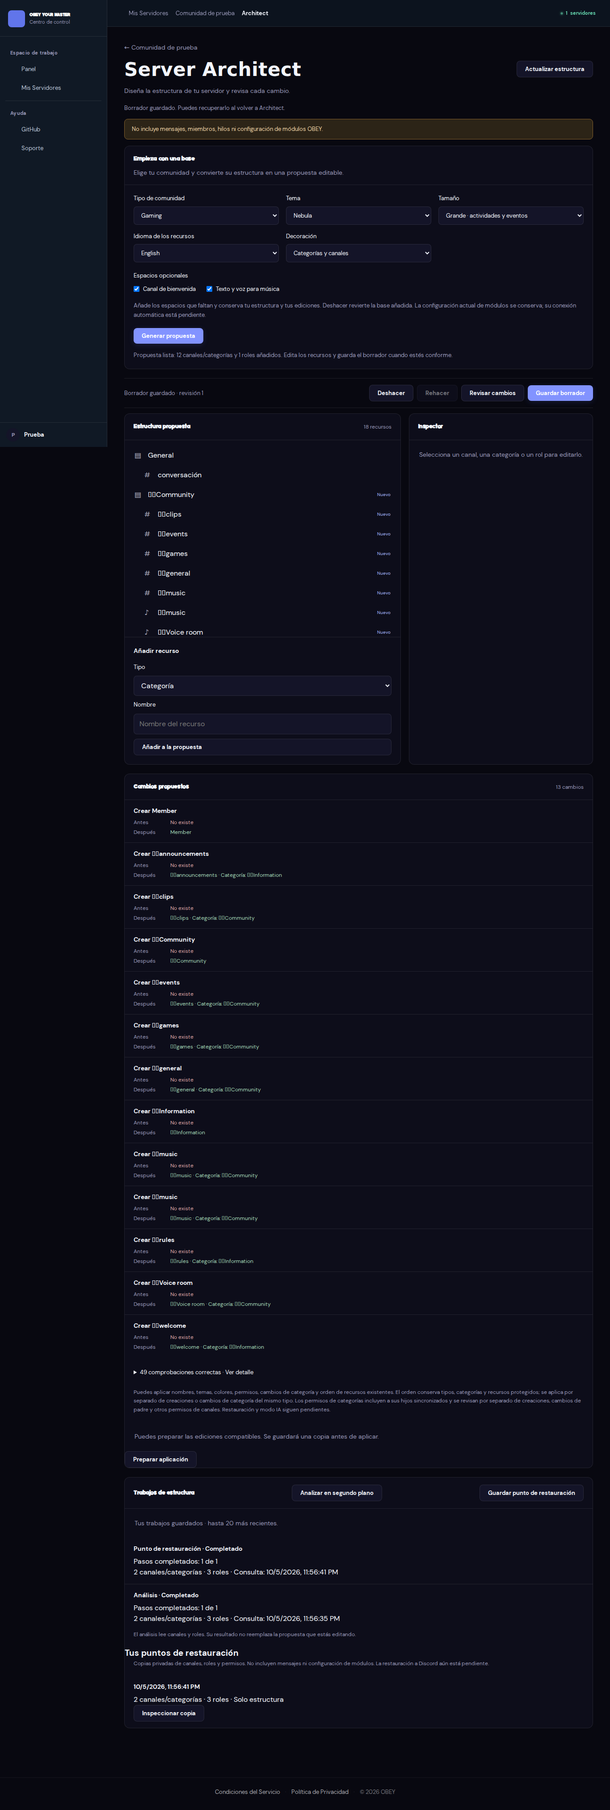
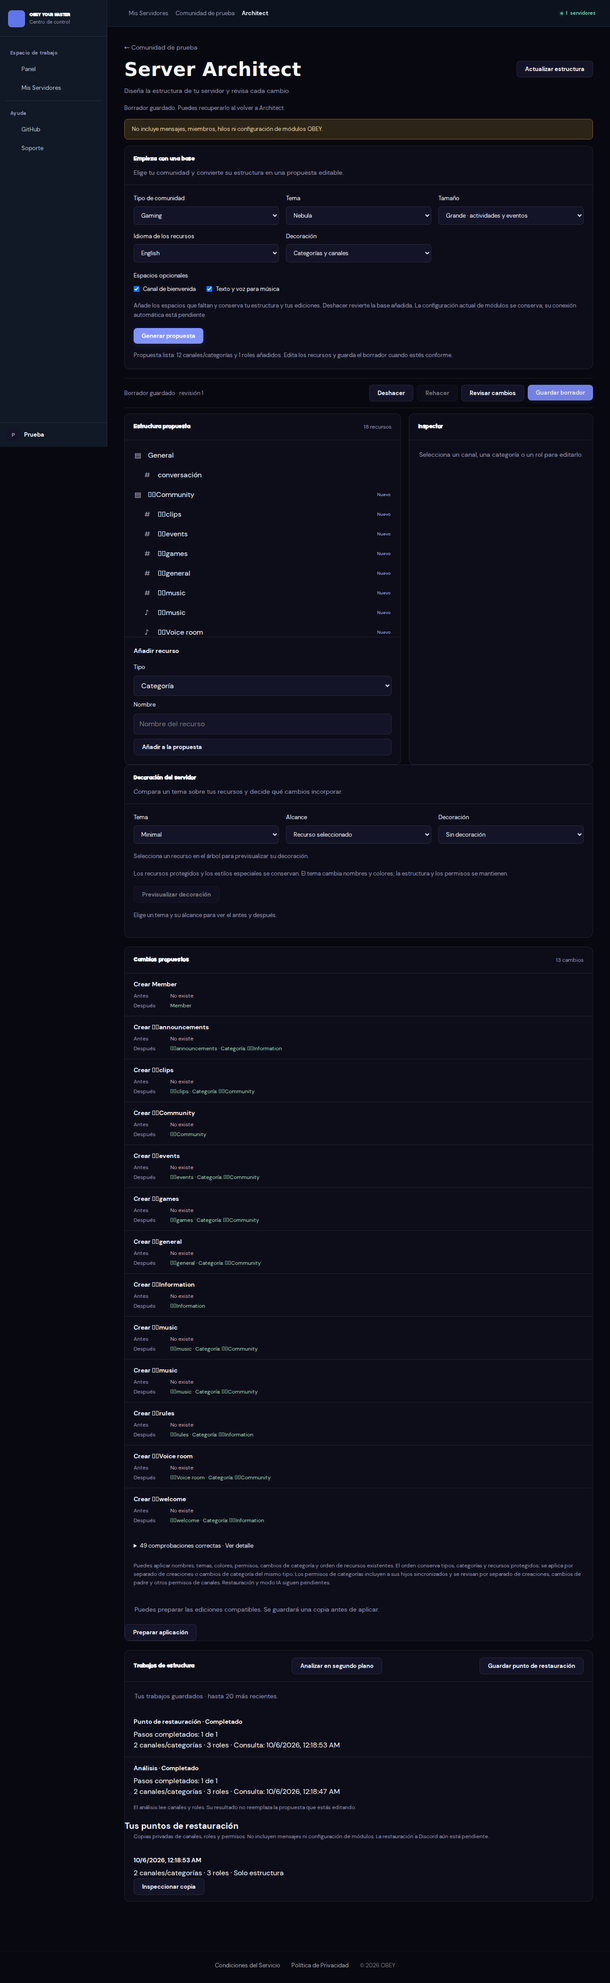
feat: add scoped Decoration Studio with reviewed names and role colors

diff --git a/scripts/verify-jobs-browser.js b/scripts/verify-jobs-browser.js
@@ -114,19 +114,40 @@ const {createJobsRuntime,connectionOptions}=require(root+'/handlers/jobs/runtime
   await page.waitForFunction(()=>document.querySelector('#architect-wizard-status').textContent.includes('0 canales/categorías'))
   await page.locator('#architect-undo').click();await page.locator('#architect-save').click();await page.waitForFunction(()=>document.querySelector('#architect-draft-status').textContent.includes('revisión 2'))
   if(await page.locator('[data-resource-id="local:setup-games"]').count())throw Error('Undo did not remove the generated base')
-  await page.locator('[data-resource-id="chat"]').click();await page.locator('#architect-name').fill('nuevo-canal');await page.locator('#architect-edit').click()
-  await page.locator('[data-resource-id="staff"]').click();await page.locator('#architect-color').fill('#123456');await page.locator('#architect-edit').click()
+  async function decorate(scope,density='expressive'){
+   await page.locator('#architect-decoration-theme').selectOption('obey');await page.locator('#architect-decoration-scope').selectOption(scope);await page.locator('#architect-decoration-density').selectOption(density)
+   const response=page.waitForResponse(response=>response.url().endsWith('/decorate')&&response.request().method()==='POST')
+   await page.locator('#architect-decoration-preview').click();const body=await (await response).json()
+   if(!body.ok)throw Error('Decoration rejected: '+JSON.stringify(body))
+   await page.waitForFunction(count=>!document.querySelector('#architect-decoration-fields').disabled&&document.querySelector('#architect-decoration-status').textContent.includes(`${count} recursos con cambios`),body.decoration.changed)
+   return body
+  }
+  await page.locator('[data-resource-id="cat"]').click();const decoratedCategory=await decorate('category')
+  if(decoratedCategory.decoration.changed!==2||edits||creates)throw Error('Category decoration missed its scope or caused effects')
+  const categoryNames=await page.locator('#architect-diff').textContent()
+  if(!categoryNames.includes('✦・General')||!categoryNames.includes('✦・conversación'))throw Error('Decoration review omitted before/after names')
+  await page.screenshot({path:root+'/docs/platform/evidence/architect-decoration-desktop.png',fullPage:true})
+  await page.setViewportSize({width:390,height:844});await page.waitForFunction(()=>document.querySelector('#sidebar').getBoundingClientRect().right<=0)
+  await page.screenshot({path:root+'/docs/platform/evidence/architect-decoration-mobile.png',fullPage:true})
+  if(await page.evaluate(()=>document.documentElement.scrollWidth>innerWidth+1))throw Error('Decoration overflow on mobile')
+  await page.setViewportSize({width:1365,height:1000});await page.locator('#architect-undo').click()
+  const decoratedServer=await decorate('server')
+  if(decoratedServer.decoration.changed!==3||!await page.locator('#architect-decoration-skipped').textContent().then(text=>text.includes('@everyone: protegido')&&text.includes('OBEY: protegido')))throw Error('Server decoration did not preserve/report protected roles')
+  await page.locator('#architect-undo').click()
+  await page.locator('[data-resource-id="chat"]').click();await decorate('resource')
+  const repeatedDecoration=await decorate('resource');if(repeatedDecoration.decoration.changed!==0)throw Error('Decoration duplicated its prefix')
+  await page.locator('[data-resource-id="staff"]').click();await decorate('resource','none')
   await page.locator('#architect-prepare-application').click();await page.waitForFunction(()=>!document.querySelector('#architect-confirm-application').hidden)
   if(edits!==0)throw Error('Preparing a plan mutated Discord fixture')
   page.once('dialog',dialog=>dialog.accept());await page.locator('#architect-confirm-application').click()
   await page.waitForFunction(()=>document.querySelector('#architect-jobs').textContent.includes('2 recursos editados'))
-  if(edits!==2||channels.find(item=>item.id==='chat').name!=='nuevo-canal'||roles.find(item=>item.id==='staff').colors.primaryColor!==0x123456)throw Error('Confirmed application did not persist the actual fixture edits')
+  if(edits!==2||channels.find(item=>item.id==='chat').name!=='✦・conversación'||roles.find(item=>item.id==='staff').colors.primaryColor!==0xd6b567)throw Error('Confirmed decoration did not persist the actual names/colors')
   const prior=await restorePoints.list(guild.id,'browser_actor');if(prior.length!==2)throw Error('Application did not capture a separate prior point')
   const beforeApply=await restorePoints.get(prior.find(point=>point.origin==='before_apply').id,guild.id,'browser_actor')
   if(beforeApply.snapshot.channels.find(item=>item.id==='chat').name!=='conversación')throw Error('Prior point captured after the edit')
   if(beforeApply.snapshot.roleColors.staff.primaryColor!==0)throw Error('Prior point captured after the role color edit')
   page.once('dialog',dialog=>dialog.accept());await page.locator('#architect-refresh').click()
-  await page.waitForFunction(()=>!document.querySelector('#architect-refresh').disabled&&document.querySelector('#architect-tree').textContent.includes('nuevo-canal'))
+  await page.waitForFunction(()=>!document.querySelector('#architect-refresh').disabled&&document.querySelector('#architect-tree').textContent.includes('✦・conversación'))
   async function add(kind,name){await page.locator('#architect-new-kind').selectOption(kind);await page.locator('#architect-new-name').fill(name);await page.locator('#architect-add button').click()}
   await add('role','Visitante nuevo');await add('4','Comunidad nueva')
   const categoryId=await page.getByRole('button',{name:'Categoría: Comunidad nueva',exact:true}).getAttribute('data-resource-id')
@@ -230,7 +251,7 @@ const {createJobsRuntime,connectionOptions}=require(root+'/handlers/jobs/runtime
   if(await second.locator('#architect-jobs').textContent()!=='')throw Error('Revocation left a private job visible')
   if(await second.locator('#architect-restore-points').textContent()!=='')throw Error('Revocation left a private restore point visible')
   if(reads!==before)throw Error('Unauthorized source read')
-  const result={scope:'Chromium, Express/EJS/session/CSRF and actual MongoDB/Redis/BullMQ; fixture Discord provider',states:['community wizard','language/theme/size/decoration affect proposal','generated resources in editor and diff','private draft persisted','second tab recovers wizard proposal','wizard repeat without duplicates','wizard undo','wizard mobile without overflow','submit','measured steps','completed result','create structural restore point','inspect actual copy and completeness limits','reload','second tab','prepare without effects','explicit confirmation','fixture edit and prior point','create role/category/text/voice','real ID dependency and checkpoints','lost creation response without duplicate','ordering limits reviewed','category move review and confirmation','move preserves ID/order/permissions','move checkpoint and prior copy','role/channel reorder from inspector','reorder confirmation and batch checkpoints','protected/voice positions preserved','reorder prior copy','role/channel permission inspector','readable permission review','confirmed permissions and prior copy','category inspector and child impact','category review lists each synced child','category confirmation and single write','category prior copy and checkpoint','custom child permissions preserved','bot access loss blocked before effects','cancel','queue unavailable','permission revoked','late authorized response rejected'],desktop:1365,mobile:390,overflow:false,errors}
+  const result={scope:'Chromium, Express/EJS/session/CSRF and actual MongoDB/Redis/BullMQ; fixture Discord provider',states:['category decoration scope and before/after','server decoration and protected roles reported','resource decoration of channel and role','decoration repeat without stacked prefix','decoration undo','confirmed decoration and prior copy','decoration mobile without overflow','community wizard','language/theme/size/decoration affect proposal','generated resources in editor and diff','private draft persisted','second tab recovers wizard proposal','wizard repeat without duplicates','wizard undo','wizard mobile without overflow','submit','measured steps','completed result','create structural restore point','inspect actual copy and completeness limits','reload','second tab','prepare without effects','explicit confirmation','fixture edit and prior point','create role/category/text/voice','real ID dependency and checkpoints','lost creation response without duplicate','ordering limits reviewed','category move review and confirmation','move preserves ID/order/permissions','move checkpoint and prior copy','role/channel reorder from inspector','reorder confirmation and batch checkpoints','protected/voice positions preserved','reorder prior copy','role/channel permission inspector','readable permission review','confirmed permissions and prior copy','category inspector and child impact','category review lists each synced child','category confirmation and single write','category prior copy and checkpoint','custom child permissions preserved','bot access loss blocked before effects','cancel','queue unavailable','permission revoked','late authorized response rejected'],desktop:1365,mobile:390,overflow:false,errors}
   if(errors.length)throw Error(errors.join('; '))
   fs.writeFileSync(root+'/docs/platform/evidence/jobs-browser.json',JSON.stringify(result,null,2)+'\n');console.log(JSON.stringify(result))
  }finally{

diff --git a/test/architect-decoration.test.js b/test/architect-decoration.test.js
@@ -1,0 +1,78 @@
+const { test } = require('node:test')
+const assert = require('node:assert/strict')
+const { decorateProposal, decorationCatalog } = require('../handlers/architect/decoration')
+const { validateBlueprint } = require('../handlers/architect/blueprint')
+const { diffBlueprint } = require('../handlers/architect/diff')
+const { compileEdits } = require('../handlers/architect/application')
+const { createArchitectService } = require('../handlers/architect/service')
+function fixture() {
+  const channel = (id, type, parentId = null) => ({ id, name: id, type, parentId, position: 1, topic: '', nsfw: false, bitrate: type === 2 ? 64000 : null, userLimit: type === 2 ? 0 : null, rateLimitPerUser: 0, overwrites: [] })
+  const role = (id, managed = false) => ({ id, name: id, position: 1, permissions: '1024', color: 0, hoist: false, mentionable: false, managed })
+  const source = { guildId: 'g', revision: 'r', channels: [channel('category', 4), channel('chat', 0, 'category'), channel('voice', 2, 'category'), channel('other', 0), channel('forum', 15, 'category')],
+    roles: [role('g'), role('bot', true), role('staff')], roleColors: { staff: { primaryColor: 0, secondaryColor: null, tertiaryColor: null } } }
+  const draft = { schemaVersion: 1, baseRevision: 'r', channels: structuredClone(source.channels), roles: structuredClone(source.roles), protectedIds: [] }
+  return { source, draft }
+}
+const choices = extra => ({ theme: 'obey', decoration: 'expressive', scope: 'server', ...extra })
+test('all seven themes produce only reviewed names/colors and preserve structure, permissions and IDs', () => {
+  for (const theme of decorationCatalog().themes) {
+    const { source, draft } = fixture(), before = structuredClone(draft)
+    const result = decorateProposal(draft, source, choices({ theme: theme.id }))
+    assert.deepEqual(draft, before)
+    const blueprint = validateBlueprint(result.blueprint, source), diff = diffBlueprint(source, blueprint)
+    assert.ok(diff.changes.length > 0)
+    assert.ok(diff.changes.every(change => change.operation === 'update' && ['name', 'color'].includes(change.field)))
+    assert.ok(compileEdits(diff).every(operation => !operation.action))
+    for (const kind of ['channels', 'roles']) for (const item of before[kind]) {
+      const actual = result.blueprint[kind].find(resource => resource.id === item.id)
+      for (const field of Object.keys(item).filter(field => !['name', 'color'].includes(field))) assert.deepEqual(actual[field], item[field])
+    }
+    assert.deepEqual(decorateProposal(result.blueprint, source, choices({ theme: theme.id })).blueprint, result.blueprint)
+  }
+})
+test('resource/category/roles scopes affect exactly their eligible targets and protection is reported', () => {
+  const { source, draft } = fixture(); draft.protectedIds = ['chat']
+  const category = decorateProposal(draft, source, choices({ scope: 'category', resourceId: 'category' }))
+  assert.equal(category.decoration.changed, 2)
+  assert.ok(category.decoration.skipped.some(item => item.id === 'chat'))
+  assert.ok(category.decoration.skipped.some(item => item.id === 'forum'))
+  assert.equal(category.blueprint.channels.find(item => item.id === 'other').name, 'other')
+  assert.deepEqual(category.blueprint.roles, draft.roles)
+  const role = decorateProposal(draft, source, choices({ scope: 'resource', kind: 'roles', resourceId: 'staff' }))
+  assert.equal(role.decoration.changed, 1); assert.deepEqual(role.blueprint.channels, draft.channels)
+  const roles = decorateProposal(draft, source, choices({ scope: 'roles' }))
+  assert.equal(roles.decoration.changed, 1); assert.equal(roles.decoration.skipped.length, 2)
+  draft.protectedIds = ['category']
+  const zone = decorateProposal(draft, source, choices({ scope: 'category', resourceId: 'category' }))
+  assert.equal(zone.decoration.changed, 0); assert.deepEqual(zone.blueprint, draft)
+})
+test('gradient, holographic and unknown role styles stay intact and unsupported requests fail', () => {
+  for (const colors of [undefined, { primaryColor: 0, secondaryColor: 1, tertiaryColor: null }, { primaryColor: 0, secondaryColor: 1, tertiaryColor: 2 }]) {
+    const { source, draft } = fixture(); source.roleColors.staff = colors
+    const result = decorateProposal(draft, source, choices({ scope: 'roles' }))
+    assert.deepEqual(result.blueprint.roles, draft.roles)
+    assert.ok(result.decoration.skipped.some(item => item.id === 'staff' && item.reason === 'role_style'))
+  }
+  const { source, draft } = fixture()
+  for (const options of [choices({ theme: 'unknown' }), choices({ scope: 'unknown' }), choices({ decoration: 'unknown' }), choices({ scope: 'resource', kind: 'channels', resourceId: 'foreign' }), choices({ scope: 'category', resourceId: 'chat' }), choices({ permissions: '8' })]) {
+    assert.throws(() => decorateProposal(draft, source, options), error => error.code === 'invalid_decoration')
+  }
+})
+test('changing theme replaces known preset decoration, preserves custom prefixes and rejects oversized names', () => {
+  const { source, draft } = fixture()
+  draft.channels.find(item => item.id === 'chat').name = '🔒・chat'
+  const first = decorateProposal(draft, source, choices()).blueprint
+  const second = decorateProposal(first, source, choices({ theme: 'sakura' })).blueprint
+  assert.equal(second.channels.find(item => item.id === 'chat').name, '🌸・🔒・chat')
+  const minimal = decorateProposal(second, source, choices({ theme: 'minimal', decoration: 'none' })).blueprint
+  assert.equal(minimal.channels.find(item => item.id === 'chat').name, '🔒・chat')
+  draft.channels.find(item => item.id === 'chat').name = 'a'.repeat(100)
+  assert.throws(() => decorateProposal(draft, source, choices()), error => error.code === 'decoration_name_limit')
+})
+test('decoration service validates fresh revision and returns an editable preview without saving or applying', async () => {
+  const { source, draft } = fixture(); let reads = 0
+  const service = createArchitectService({ snapshot: async () => { reads++; return source } })
+  const result = await service.decorate({ id: 'g' }, 'actor', draft, choices())
+  assert.equal(reads, 1); assert.ok(result.diff.changes.length); assert.ok(result.decoration.changed)
+  await assert.rejects(service.decorate({ id: 'g' }, 'actor', { ...draft, baseRevision: 'old' }, choices()), error => error.code === 'revision_conflict')
+})

diff --git a/handlers/architect/wizard.js b/handlers/architect/wizard.js
@@ -1,4 +1,5 @@
 const { BlueprintError } = require('./blueprint')
+const { themeCatalog, getTheme, themedName } = require('./themes')
 const communities = [
   ['gaming', 'Gaming', ['games', 'clips']], ['community', 'Comunidad', ['introductions', 'suggestions']],
   ['anime', 'Anime', ['anime', 'art']], ['music', 'Música', ['music', 'recommendations']],
@@ -6,15 +7,13 @@ const communities = [
   ['study', 'Estudio', ['resources', 'help']], ['roleplay', 'Roleplay', ['characters', 'stories']],
   ['support', 'Soporte', ['help', 'resources']], ['custom', 'Personalizado', ['introductions', 'projects']],
 ]
-const themes = [['midnight', 'Midnight', 0x64748b, '🌙'], ['minimal', 'Minimal', 0x94a3b8, ''], ['sakura', 'Sakura', 0xf9a8d4, '🌸'],
-  ['nebula', 'Nebula', 0xa78bfa, '✨'], ['gaming', 'Gaming', 0x22c55e, '🎮'], ['luxury', 'Luxury', 0xd4af37, '◆'], ['obey', 'OBEY', 0xd6b567, '✦']]
 const names = {
   es: { information: 'Información', community: 'Comunidad', rules: 'reglas', announcements: 'anuncios', general: 'general', introductions: 'presentaciones', suggestions: 'sugerencias', games: 'juegos', clips: 'clips', anime: 'anime', art: 'arte', recommendations: 'recomendaciones', music: 'música', projects: 'proyectos', help: 'ayuda', resources: 'recursos', characters: 'personajes', stories: 'historias', events: 'eventos', voice: 'Sala de voz', member: 'Miembro', welcome: 'bienvenida' },
   en: { information: 'Information', community: 'Community', rules: 'rules', announcements: 'announcements', general: 'general', introductions: 'introductions', suggestions: 'suggestions', games: 'games', clips: 'clips', anime: 'anime', art: 'art', recommendations: 'recommendations', music: 'music', projects: 'projects', help: 'help', resources: 'resources', characters: 'characters', stories: 'stories', events: 'events', voice: 'Voice room', member: 'Member', welcome: 'welcome' },
   pt: { information: 'Informações', community: 'Comunidade', rules: 'regras', announcements: 'anúncios', general: 'geral', introductions: 'apresentações', suggestions: 'sugestões', games: 'jogos', clips: 'clipes', anime: 'anime', art: 'arte', recommendations: 'recomendações', music: 'música', projects: 'projetos', help: 'ajuda', resources: 'recursos', characters: 'personagens', stories: 'histórias', events: 'eventos', voice: 'Sala de voz', member: 'Membro', welcome: 'boas-vindas' },
 }
 function wizardCatalog() {
-  return { communities: communities.map(([id, label]) => ({ id, label })), themes: themes.map(([id, label]) => ({ id, label })),
+  return { communities: communities.map(([id, label]) => ({ id, label })), themes: themeCatalog(),
     sizes: [{ id: 'small', label: 'Pequeño · lo esencial' }, { id: 'medium', label: 'Mediano · espacios por actividad' }, { id: 'large', label: 'Grande · actividades y eventos' }],
     languages: [{ id: 'es', label: 'Español' }, { id: 'en', label: 'English' }, { id: 'pt', label: 'Português' }],
     decorations: [{ id: 'none', label: 'Sin decoración' }, { id: 'subtle', label: 'Solo categorías' }, { id: 'expressive', label: 'Categorías y canales' }],
@@ -23,13 +22,13 @@ function wizardCatalog() {
 function generateProposal(input, options) {
   const fail = message => { throw new BlueprintError(message, 'invalid_wizard') }
   if (!options || typeof options !== 'object' || Array.isArray(options) || Object.keys(options).some(key => !['community', 'theme', 'size', 'language', 'decoration', 'spaces', 'title'].includes(key))) fail('Invalid wizard choices')
-  const community = communities.find(([id]) => id === options.community), theme = themes.find(([id]) => id === options.theme)
+  const community = communities.find(([id]) => id === options.community), theme = getTheme(options.theme)
   if (!community || !theme || !Object.hasOwn(names, options.language) || !['small', 'medium', 'large'].includes(options.size) || !['none', 'subtle', 'expressive'].includes(options.decoration)) fail('Unsupported wizard choices')
   if (!Array.isArray(options.spaces) || options.spaces.length > 2 || new Set(options.spaces).size !== options.spaces.length || options.spaces.some(id => !['welcome', 'music'].includes(id))) fail('Unsupported wizard spaces')
   if (options.title !== undefined && (typeof options.title !== 'string' || options.title.trim().length > 60)) fail('Invalid wizard title')
   if (options.community === 'custom' && !options.title?.trim()) fail('Custom wizard requires a title')
   const blueprint = structuredClone(input), labels = names[options.language], protectedIds = new Set(blueprint.protectedIds || [])
-  const decorate = (name, category) => theme[3] && (options.decoration === 'expressive' || (category && options.decoration === 'subtle')) ? `${theme[3]}・${name}` : name
+  const decorate = (name, category) => themedName(name, theme, options.decoration, category)
   const initial = { channels: blueprint.channels.length, roles: blueprint.roles.length }
   function channel(key, type, name, parent = null) {
     const id = `local:setup-${key}`, title = decorate(name, type === 4)

diff --git a/dashboard/public/js/architect-editor.js b/dashboard/public/js/architect-editor.js
@@ -6,11 +6,13 @@
   let source = null, editor = null, selected = null, busy = false, storageAvailable = false, draftRevision = 0, savedValue = '', hasSavedDraft = false
   let applyAvailable = false, applicationPlan = null
   let permissionRoleId = ''
+  let decorationUI = null
   const { permissionOptions, setRolePermission, setOverwritePermission, formatPermissions } = architectPermissions
   const order = (a, b) => a.type - b.type || a.position - b.position || a.id.localeCompare(b.id)
   const labels = { name: 'Nombre', topic: 'Tema', color: 'Color', permissions: 'Permisos', overwrites: 'Permisos del canal', nsfw: 'Contenido restringido', hoist: 'Mostrar rol separado', mentionable: 'Rol mencionable' }
   function status(text, error = false) { $('architect-status').textContent = text; $('architect-status').dataset.state = error ? 'error' : 'ready' }
   function buttons() {
+    decorationUI?.update()
     $('architect-wizard-fields').disabled = busy || !editor
     $('architect-workspace').disabled = busy || !editor
     $('architect-refresh').disabled = busy
@@ -32,6 +34,8 @@
         storage_unavailable: 'El almacenamiento de borradores no está disponible.', invalid_blueprint: 'La propuesta contiene nombres, referencias o permisos inválidos.',
         architect_unavailable: 'No se pudo leer o guardar la propuesta. Reintenta cuando el servicio esté disponible.',
         invalid_wizard: 'Revisa las opciones del asistente. Una categoría existente privada o protegida requiere edición explícita para añadir canales.' }
+      messages.invalid_decoration = 'Revisa el tema y el alcance de decoración seleccionados.'
+      messages.decoration_name_limit = 'La decoración supera los 100 caracteres de un nombre. Acorta ese nombre o elige menos decoración.'
       Object.assign(messages, { application_unsupported: 'Separa el orden de creaciones o cambios de categoría del mismo tipo. Revisa una categoría y sus hijos sincronizados por aplicación, sin creaciones, cambios de padre ni otros permisos de canales.',
         application_conflict: 'La confirmación no coincide con el plan revisado. Prepara una aplicación nueva.', application_expired: 'El plan caducó. Prepara una aplicación nueva.',
         application_blocked: 'Los permisos actuales impiden aplicar esta propuesta. Revisa los controles.', apply_unavailable: 'La aplicación requiere un servidor canary habilitado.',
@@ -42,6 +46,9 @@
     return body
   }
   const post = (path, body) => request(path, { method: 'POST', headers: { 'Content-Type': 'application/json' }, body: JSON.stringify(body) })
+  decorationUI = initArchitectDecoration({ post, state: () => ({ blueprint: editor?.current(), selected, busy }),
+    accept: body => { editor.change(next => Object.assign(next, body.blueprint)); changed(); review(body) },
+    setBusy: value => { busy = value; if (value) applicationPlan = null; buttons() } })
   function changed() {
     applicationPlan = null
     $('architect-application-status').textContent = applyAvailable ? 'Puedes preparar las ediciones compatibles. Se guardará una copia antes de aplicar.' : 'La aplicación requiere un servidor canary habilitado.'
@@ -143,6 +150,7 @@
       const body = await request()
       source = body.snapshot; storageAvailable = body.storageAvailable; draftRevision = body.draft?.draftRevision || 0
       loadWizard(body.wizardCatalog)
+      decorationUI.load(body.decorationCatalog)
       applyAvailable = Boolean(body.applyAvailable)
       const draft = body.draft && !body.draftStale ? body.draft.blueprint : null
       editor = createArchitectEditorState(source, draft); selected = null; savedValue = JSON.stringify(editor.current()); hasSavedDraft = Boolean(draft)

diff --git a/handlers/architect/decoration.js b/handlers/architect/decoration.js
@@ -1,0 +1,37 @@
+const { BlueprintError } = require('./blueprint')
+const { themeCatalog, getTheme, themedName, undecoratedName } = require('./themes')
+function decorationCatalog() {
+  return { themes: themeCatalog(), scopes: [{ id: 'resource', label: 'Recurso seleccionado' }, { id: 'category', label: 'Categoría seleccionada y sus canales' },
+    { id: 'roles', label: 'Roles del servidor' }, { id: 'server', label: 'Servidor completo' }],
+    densities: [{ id: 'none', label: 'Sin decoración' }, { id: 'subtle', label: 'Solo categorías' }, { id: 'expressive', label: 'Categorías, canales y roles' }] }
+}
+function decorateProposal(input, source, choices) {
+  const fail = message => { throw new BlueprintError(message, 'invalid_decoration') }
+  if (!choices || typeof choices !== 'object' || Array.isArray(choices) || Object.keys(choices).some(key => !['theme', 'decoration', 'scope', 'kind', 'resourceId'].includes(key))) fail('Invalid decoration choices')
+  const theme = getTheme(choices.theme)
+  if (!theme || !['none', 'subtle', 'expressive'].includes(choices.decoration) || !['resource', 'category', 'roles', 'server'].includes(choices.scope)) fail('Unsupported decoration choices')
+  if (choices.scope === 'resource' && (!['roles', 'channels'].includes(choices.kind) || !input[choices.kind].some(item => item.id === choices.resourceId))) fail('Invalid decoration resource')
+  if (choices.scope === 'category' && !input.channels.some(item => item.id === choices.resourceId && item.type === 4)) fail('Invalid decoration category')
+  if (choices.scope === 'category' && choices.kind !== undefined) fail('Unexpected decoration kind')
+  if (!['resource', 'category'].includes(choices.scope) && (choices.resourceId !== undefined || choices.kind !== undefined)) fail('Unexpected decoration target')
+  const blueprint = structuredClone(input), protectedIds = new Set(blueprint.protectedIds || []), skipped = []
+  let changed = 0
+  for (const kind of ['channels', 'roles']) for (const item of blueprint[kind]) {
+    const inScope = choices.scope === 'server' || (choices.scope === 'roles' && kind === 'roles') ||
+      (choices.scope === 'resource' && choices.kind === kind && choices.resourceId === item.id) ||
+      (choices.scope === 'category' && kind === 'channels' && (choices.resourceId === item.id || choices.resourceId === item.parentId))
+    if (!inScope) continue
+    const colors = source.roleColors?.[item.id]
+    const reason = protectedIds.has(item.id) || (kind === 'channels' && protectedIds.has(item.parentId)) || (kind === 'roles' && (item.managed || item.id === source.guildId)) ? 'protected' :
+      kind === 'channels' && ![0, 2, 4].includes(item.type) ? 'channel_type' :
+        kind === 'roles' && !item.id.startsWith('local:') && (!colors || colors.secondaryColor != null || colors.tertiaryColor != null) ? 'role_style' : null
+    if (reason) { skipped.push({ id: item.id, kind, name: item.name, reason }); continue }
+    const name = themedName(undecoratedName(item.name), theme, choices.decoration, item.type === 4)
+    if (!name.trim() || name.length > 100) throw new BlueprintError('Decoration exceeds the name limit', 'decoration_name_limit')
+    if (item.name !== name || (kind === 'roles' && item.color !== theme[2])) changed++
+    item.name = name
+    if (kind === 'roles') item.color = theme[2]
+  }
+  return { blueprint, decoration: { choices: structuredClone(choices), changed, skipped } }
+}
+module.exports = { decorationCatalog, decorateProposal }

diff --git a/dashboard/public/js/architect-decoration.js b/dashboard/public/js/architect-decoration.js
@@ -1,0 +1,40 @@
+(function (root) {
+  root.initArchitectDecoration = function ({ post, state, accept, setBusy }) {
+    const $ = id => document.getElementById(`architect-decoration-${id}`)
+    let ready = false
+    function update() {
+      const current = state(), selected = current.selected && current.blueprint?.[current.selected.kind].find(item => item.id === current.selected.id)
+      const scope = $('scope').value
+      $('fields').disabled = current.busy || !current.blueprint || !ready
+      $('preview').disabled = current.busy || !current.blueprint || !ready || (scope === 'resource' && !selected) || (scope === 'category' && selected?.type !== 4)
+      $('target').textContent = scope === 'server' ? 'Se revisarán los canales, categorías y roles editables del servidor.' : scope === 'roles' ? 'Se revisarán los roles editables del servidor.' :
+        selected ? `Selección: ${selected.name}${scope === 'category' ? ' y sus canales' : ''}` : 'Selecciona un recurso en el árbol para previsualizar su decoración.'
+    }
+    function load(catalog) {
+      for (const [field, key, fallback] of [['theme', 'themes', 'minimal'], ['scope', 'scopes', 'resource'], ['density', 'densities', 'none']]) {
+        const select = $(field), previous = select.value
+        select.replaceChildren(...catalog[key].map(item => new Option(item.label, item.id)))
+        select.value = catalog[key].some(item => item.id === previous) ? previous : fallback
+      }
+      ready = true; update()
+    }
+    $('scope').addEventListener('change', update)
+    $('form').addEventListener('submit', async event => {
+      event.preventDefault(); const current = state()
+      if (current.busy || !current.blueprint || $('preview').disabled) return
+      const choices = { theme: $('theme').value, scope: $('scope').value, decoration: $('density').value }
+      if (['resource', 'category'].includes(choices.scope)) choices.resourceId = current.selected.id
+      if (choices.scope === 'resource') choices.kind = current.selected.kind
+      setBusy(true); $('status').textContent = 'Comparando la decoración con tu propuesta…'; $('skipped').replaceChildren()
+      try {
+        const body = await post('/decorate', { blueprint: current.blueprint, choices })
+        accept(body)
+        $('status').textContent = `${body.decoration.changed} recursos con cambios. Revisa los nombres y colores antes de guardar o confirmar.`
+        const reasons = { protected: 'protegido', channel_type: 'tipo de canal conservado', role_style: 'color especial o estilo sin verificar' }
+        for (const item of body.decoration.skipped) { const line = document.createElement('li'); line.textContent = `${item.name}: ${reasons[item.reason] || 'conservado'}`; $('skipped').append(line) }
+      } catch (error) { $('status').textContent = error.message }
+      finally { setBusy(false) }
+    })
+    return { load, update }
+  }
+})(window)

diff --git a/test/architect-api.test.js b/test/architect-api.test.js
@@ -6,7 +6,8 @@ function fixture() {
  const routes=new Map(),reads=[]
  const app={get:(path,...handlers)=>routes.set(`GET ${path}`,handlers),post:(path,...handlers)=>routes.set(`POST ${path}`,handlers)}
  const client={guilds:{cache:new Map([['g',{id:'g',name:'Guild'}]])}}
- const service={async read(guild,actor){reads.push({guild:guild.id,actor});return {snapshot:{revision:'r'}}},async generate(guild,actor,blueprint,choices){reads.push({guild:guild.id,actor});return {blueprint,choices}},async preview(){throw Object.assign(new Error('changed'),{code:'revision_conflict'})},async save(){throw new Error('private connection string')}}
+ const propose=async(guild,actor,blueprint,choices)=>{reads.push({guild:guild.id,actor});return {blueprint,choices}}
+ const service={async read(guild,actor){reads.push({guild:guild.id,actor});return {snapshot:{revision:'r'}}},generate:propose,decorate:propose,async preview(){throw Object.assign(new Error('changed'),{code:'revision_conflict'})},async save(){throw new Error('private connection string')}}
  mount(app,client,{service,canManageGuild,requireAuth:(req,res,next)=>req.session.user?next():res.status(401).json({error:'not_authenticated'}),requireFreshGuildPermissions:(req,res,next)=>next()})
  async function request(method,path,user,body={},guildId='g') {
   const req={params:{guildId},session:{user},body},res={code:200,set(){},status(code){this.code=code;return this},json(body){this.body=body},render(){}}
@@ -41,5 +42,15 @@ test('wizard generation uses the shared service and rejects unauthorized or inje
  assert.equal(f.reads.length,0)
  const generated=await f.request('POST',path,admin,body)
  assert.equal(generated.code,200);assert.deepEqual(generated.body.blueprint,body.blueprint)
+ assert.deepEqual(f.reads,[{guild:'g',actor:'u'}])
+})
+test('decoration uses the shared service and rejects unauthorized/injected requests before any proposal',async()=>{
+ const f=fixture(),path='/api/architect/:guildId/decorate',body={blueprint:{baseRevision:'r'},choices:{theme:'obey',scope:'server'}}
+ assert.equal((await f.request('POST',path,null,body)).code,401)
+ assert.equal((await f.request('POST',path,{id:'u',guilds:[{id:'g',permissions:'0'}]},body)).code,403)
+ assert.equal((await f.request('POST',path,admin,{...body,apply:true})).code,400)
+ assert.equal(f.reads.length,0)
+ const decorated=await f.request('POST',path,admin,body)
+ assert.equal(decorated.code,200);assert.deepEqual(decorated.body.blueprint,body.blueprint)
  assert.deepEqual(f.reads,[{guild:'g',actor:'u'}])
 })

diff --git a/dashboard/architect-routes.js b/dashboard/architect-routes.js
@@ -25,7 +25,7 @@ module.exports = (app, client, {
       if (code === 'application_not_found') return res.status(404).json({ error: code })
       if (code === 'application_unsupported') return res.status(400).json({ error: code })
       if (error instanceof JobError && code === 'invalid_job') return res.status(400).json({ error: code })
-      if (error instanceof BlueprintError && ['invalid_blueprint', 'invalid_wizard'].includes(code)) return res.status(400).json({ error: code, detail: error.message })
+      if (error instanceof BlueprintError && ['invalid_blueprint', 'invalid_wizard', 'invalid_decoration', 'decoration_name_limit'].includes(code)) return res.status(400).json({ error: code, detail: error.message })
       return res.status(503).json({ error: ['storage_unavailable', 'jobs_unavailable', 'apply_unavailable'].includes(code) ? code : 'architect_unavailable' })
     }
   }
@@ -41,6 +41,10 @@ module.exports = (app, client, {
   app.post('/api/architect/:guildId/generate', ...guarded, wrap(async (req, res) => {
     if (!req.body || typeof req.body !== 'object' || Array.isArray(req.body) || Object.keys(req.body).some(key => !['blueprint', 'choices'].includes(key))) throw new BlueprintError('Invalid wizard request', 'invalid_wizard')
     res.json({ ok: true, ...(await service.generate(req.architectGuild, req.session.user.id, req.body.blueprint, req.body.choices)) })
+  }))
+  app.post('/api/architect/:guildId/decorate', ...guarded, wrap(async (req, res) => {
+    if (!req.body || typeof req.body !== 'object' || Array.isArray(req.body) || Object.keys(req.body).some(key => !['blueprint', 'choices'].includes(key))) throw new BlueprintError('Invalid decoration request', 'invalid_decoration')
+    res.json({ ok: true, ...(await service.decorate(req.architectGuild, req.session.user.id, req.body.blueprint, req.body.choices)) })
   }))
   app.post('/api/architect/:guildId/draft', ...guarded, wrap(async (req, res) => {
     res.json({ ok: true, ...(await service.save(req.architectGuild, req.session.user.id, req.body?.blueprint, req.body?.expectedRevision)) })

diff --git a/handlers/architect/service.js b/handlers/architect/service.js
@@ -5,6 +5,13 @@ const { preflight } = require('./preflight')
 function createArchitectService({ snapshot = snapshotGuild, repository, storageReady = () => true, applyAvailable = () => false } = {}) {
   return {
     catalog: () => require('./wizard').wizardCatalog(),
+    async decorate(guild, actorId, input, choices) {
+      const current = await snapshot(guild), initial = validateBlueprint(input, current)
+      const result = require('./decoration').decorateProposal(initial, current, choices)
+      const blueprint = validateBlueprint(result.blueprint, current), diff = diffBlueprint(current, blueprint)
+      return { snapshot: current, blueprint, diff, decoration: result.decoration,
+        preflight: await preflight(guild, blueprint, diff, actorId, { executionAvailable: Boolean(applyAvailable(guild)), observed: current }) }
+    },
     async generate(guild, actorId, input, options) {
       const current = await snapshot(guild)
       const initial = validateBlueprint(input, current)
@@ -17,7 +24,7 @@ function createArchitectService({ snapshot = snapshotGuild, repository, storageR
     async read(guild, actorId) {
       const current = await snapshot(guild)
       const draft = repository && storageReady() ? await repository.get(guild.id, actorId) : null
-      return { snapshot: current, draft, draftStale: Boolean(draft && draft.blueprint.baseRevision !== current.revision), storageAvailable: Boolean(repository && storageReady()), applyAvailable: Boolean(applyAvailable(guild)), wizardCatalog: require('./wizard').wizardCatalog() }
+      return { snapshot: current, draft, draftStale: Boolean(draft && draft.blueprint.baseRevision !== current.revision), storageAvailable: Boolean(repository && storageReady()), applyAvailable: Boolean(applyAvailable(guild)), wizardCatalog: require('./wizard').wizardCatalog(), decorationCatalog: require('./decoration').decorationCatalog() }
     },
     async preview(guild, input, actorId) {
       const current = await snapshot(guild)

diff --git a/dashboard/public/css/architect-wizard.css b/dashboard/public/css/architect-wizard.css
@@ -1,2 +1,3 @@
 .architect-wizard{margin-bottom:20px}.architect-wizard .architect-pane-heading p{margin:8px 0 0;font-size:14px;color:var(--muted)}#architect-wizard{padding:20px}#architect-wizard-fields{border:0;padding:0;min-width:0}.architect-wizard-grid{display:grid;grid-template-columns:repeat(3,minmax(0,1fr));gap:16px}.architect-wizard-grid label{display:flex;flex-direction:column;gap:8px;font-size:13px}.architect-wizard-grid select,.architect-wizard-grid input{width:100%;min-width:0;padding:10px 12px;border:1px solid var(--border);background:var(--surf2);border-radius:7px;color:inherit;font:inherit}.architect-wizard-spaces{border:0;margin:20px 0 0;padding:0}.architect-wizard-spaces legend{font-size:13px;margin-bottom:10px}#architect-wizard-spaces{display:flex;flex-wrap:wrap;gap:12px 24px}#architect-wizard-spaces label{display:flex;align-items:center;gap:8px;font-size:13px}.architect-wizard-note,#architect-wizard-status{color:var(--muted);font-size:13px;line-height:1.6}#architect-wizard-status{margin:16px 0 0}.architect-wizard-note{margin:18px 0}#architect-wizard-fields:disabled{opacity:.6}@media(max-width:800px){.architect-wizard-grid{grid-template-columns:repeat(2,minmax(0,1fr))}}@media(max-width:480px){.architect-wizard-grid{grid-template-columns:1fr}#architect-generate{width:100%;justify-content:center}}
 #architect-preflight{padding:16px 20px;color:var(--muted);font-size:13px;line-height:1.6}#architect-preflight summary{cursor:pointer;color:var(--text);padding:8px 0}#architect-preflight summary:focus-visible{outline:2px solid #7c83ff;outline-offset:3px}
+.architect-decoration-form{padding:20px}.architect-decoration-form>fieldset{border:0;padding:0;min-width:0}.architect-decoration-form>fieldset:disabled{opacity:.6}#architect-decoration-skipped{padding-left:20px;overflow-wrap:anywhere}

diff --git a/handlers/architect.js b/handlers/architect.js
@@ -20,11 +20,11 @@ module.exports = client => {
   client.modules.register({
     id: 'architect', version: '1.0.0', defaults: { preserveExisting: true }, permissions: { read: 'ManageGuild', draft: 'ManageGuild' },
     commands: { slash: ['config.architect'], prefix: [] }, interactions: [], events: { consumed: [], emitted: [] }, jobs: ['architect.snapshot', 'architect.backup', 'architect.apply'],
-    api: ['GET /api/architect/:guildId', 'POST /api/architect/:guildId/generate', 'POST /api/architect/:guildId/preview', 'POST /api/architect/:guildId/draft',
+    api: ['GET /api/architect/:guildId', 'POST /api/architect/:guildId/generate', 'POST /api/architect/:guildId/decorate', 'POST /api/architect/:guildId/preview', 'POST /api/architect/:guildId/draft',
       'GET /api/architect/:guildId/jobs', 'POST /api/architect/:guildId/jobs', 'GET /api/architect/:guildId/jobs/:jobId', 'POST /api/architect/:guildId/jobs/:jobId/cancel',
       'GET /api/architect/:guildId/restore-points', 'GET /api/architect/:guildId/restore-points/:pointId', 'POST /api/architect/:guildId/restore-points',
       'POST /api/architect/:guildId/applications', 'POST /api/architect/:guildId/applications/confirm'],
     realtime: { consumed: [], emitted: [] }, dependencies: ['mongoose', 'discord.js'],
-    capabilities: { snapshot: 'available', wizard: 'partial', preview: 'available', drafts: 'available', restorePoints: 'available', apply: 'partial', applyFields: ['name', 'topic', 'color'], ai: 'unavailable', rollback: 'unavailable' },
+    capabilities: { snapshot: 'available', wizard: 'partial', decoration: 'partial', preview: 'available', drafts: 'available', restorePoints: 'available', apply: 'partial', applyFields: ['name', 'topic', 'color'], ai: 'unavailable', rollback: 'unavailable' },
   }, client.architect)
 }

diff --git a/handlers/architect/themes.js b/handlers/architect/themes.js
@@ -1,0 +1,14 @@
+const themes = [['midnight', 'Midnight', 0x64748b, '🌙'], ['minimal', 'Minimal', 0x94a3b8, ''], ['sakura', 'Sakura', 0xf9a8d4, '🌸'],
+  ['nebula', 'Nebula', 0xa78bfa, '✨'], ['gaming', 'Gaming', 0x22c55e, '🎮'], ['luxury', 'Luxury', 0xd4af37, '◆'], ['obey', 'OBEY', 0xd6b567, '✦']]
+const themeCatalog = () => themes.map(([id, label]) => ({ id, label }))
+const getTheme = id => themes.find(theme => theme[0] === id)
+function themedName(name, theme, density, category) {
+  return theme[3] && (density === 'expressive' || (category && density === 'subtle')) ? `${theme[3]}・${name}` : name
+}
+function undecoratedName(name) {
+  const prefixes = themes.filter(theme => theme[3]).map(theme => `${theme[3]}・`)
+  let prefix
+  while ((prefix = prefixes.find(prefix => name.startsWith(prefix)))) name = name.slice(prefix.length)
+  return name
+}
+module.exports = { themeCatalog, getTheme, themedName, undecoratedName }
